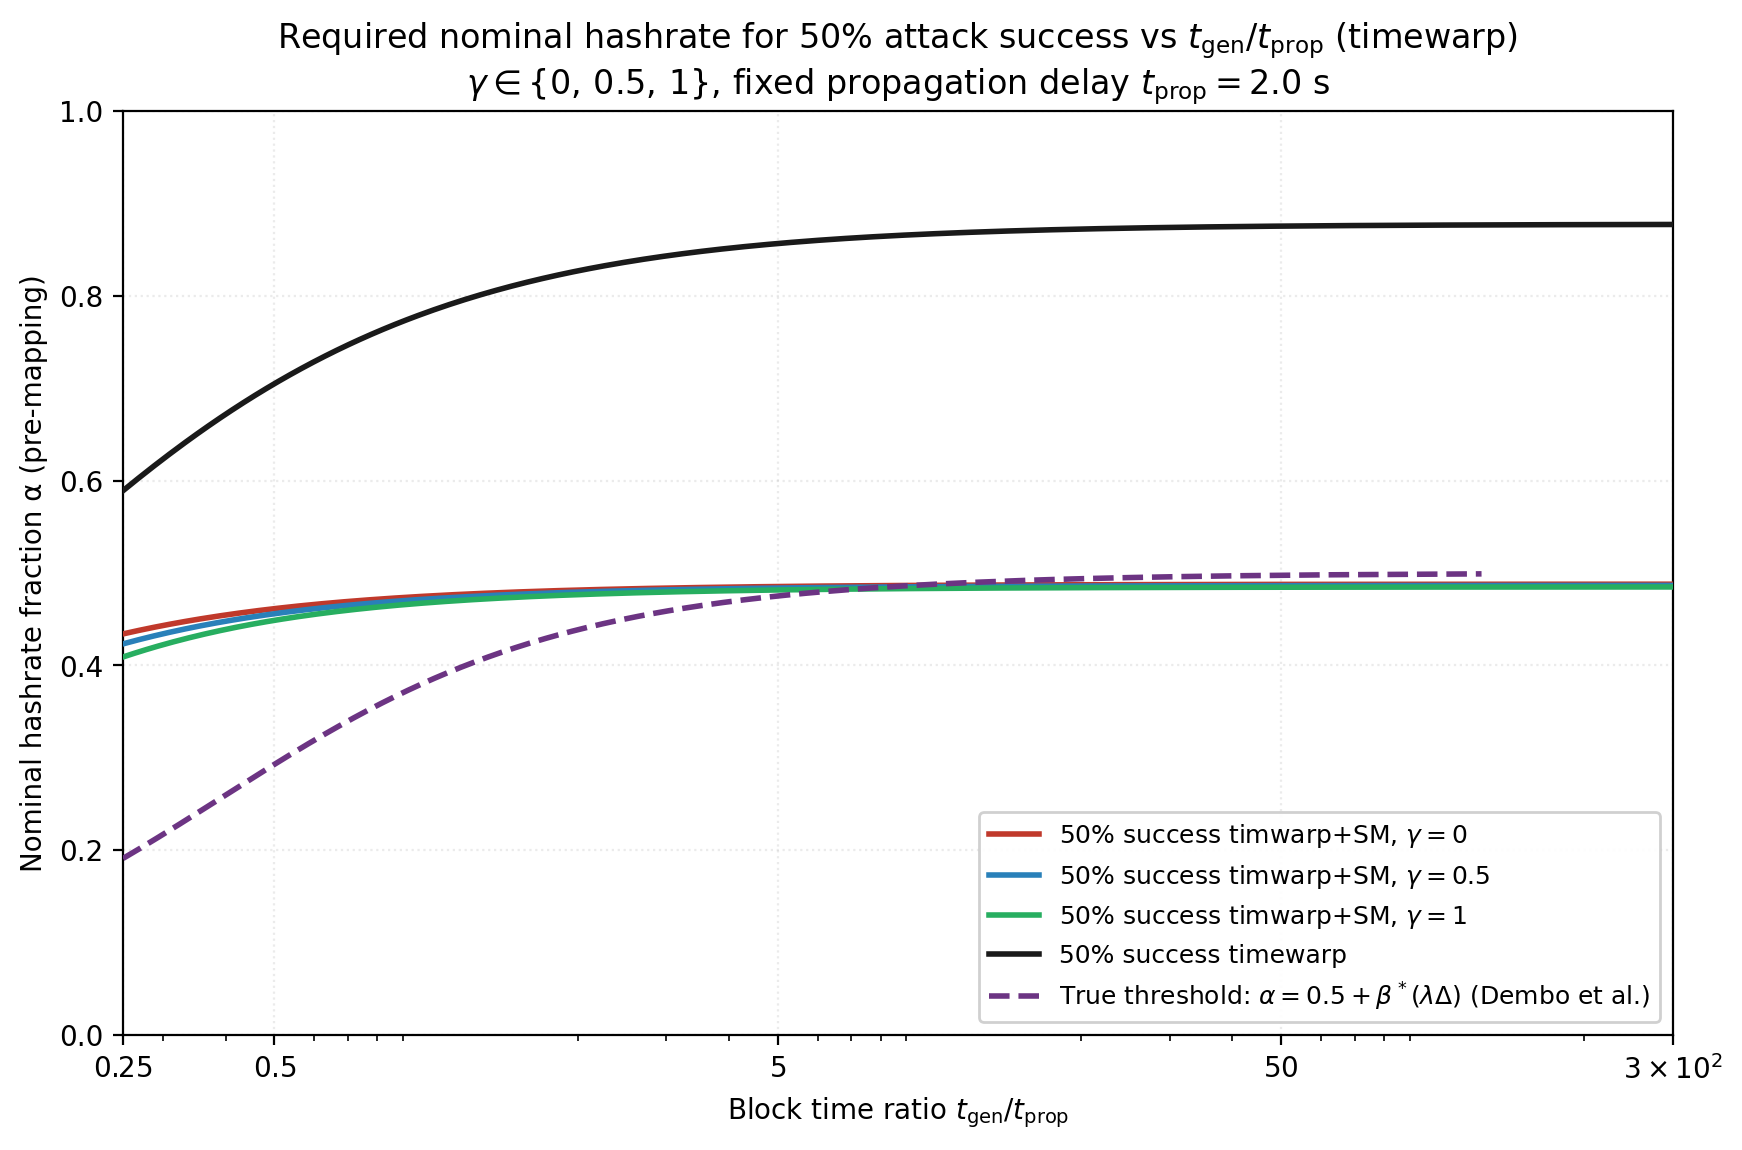
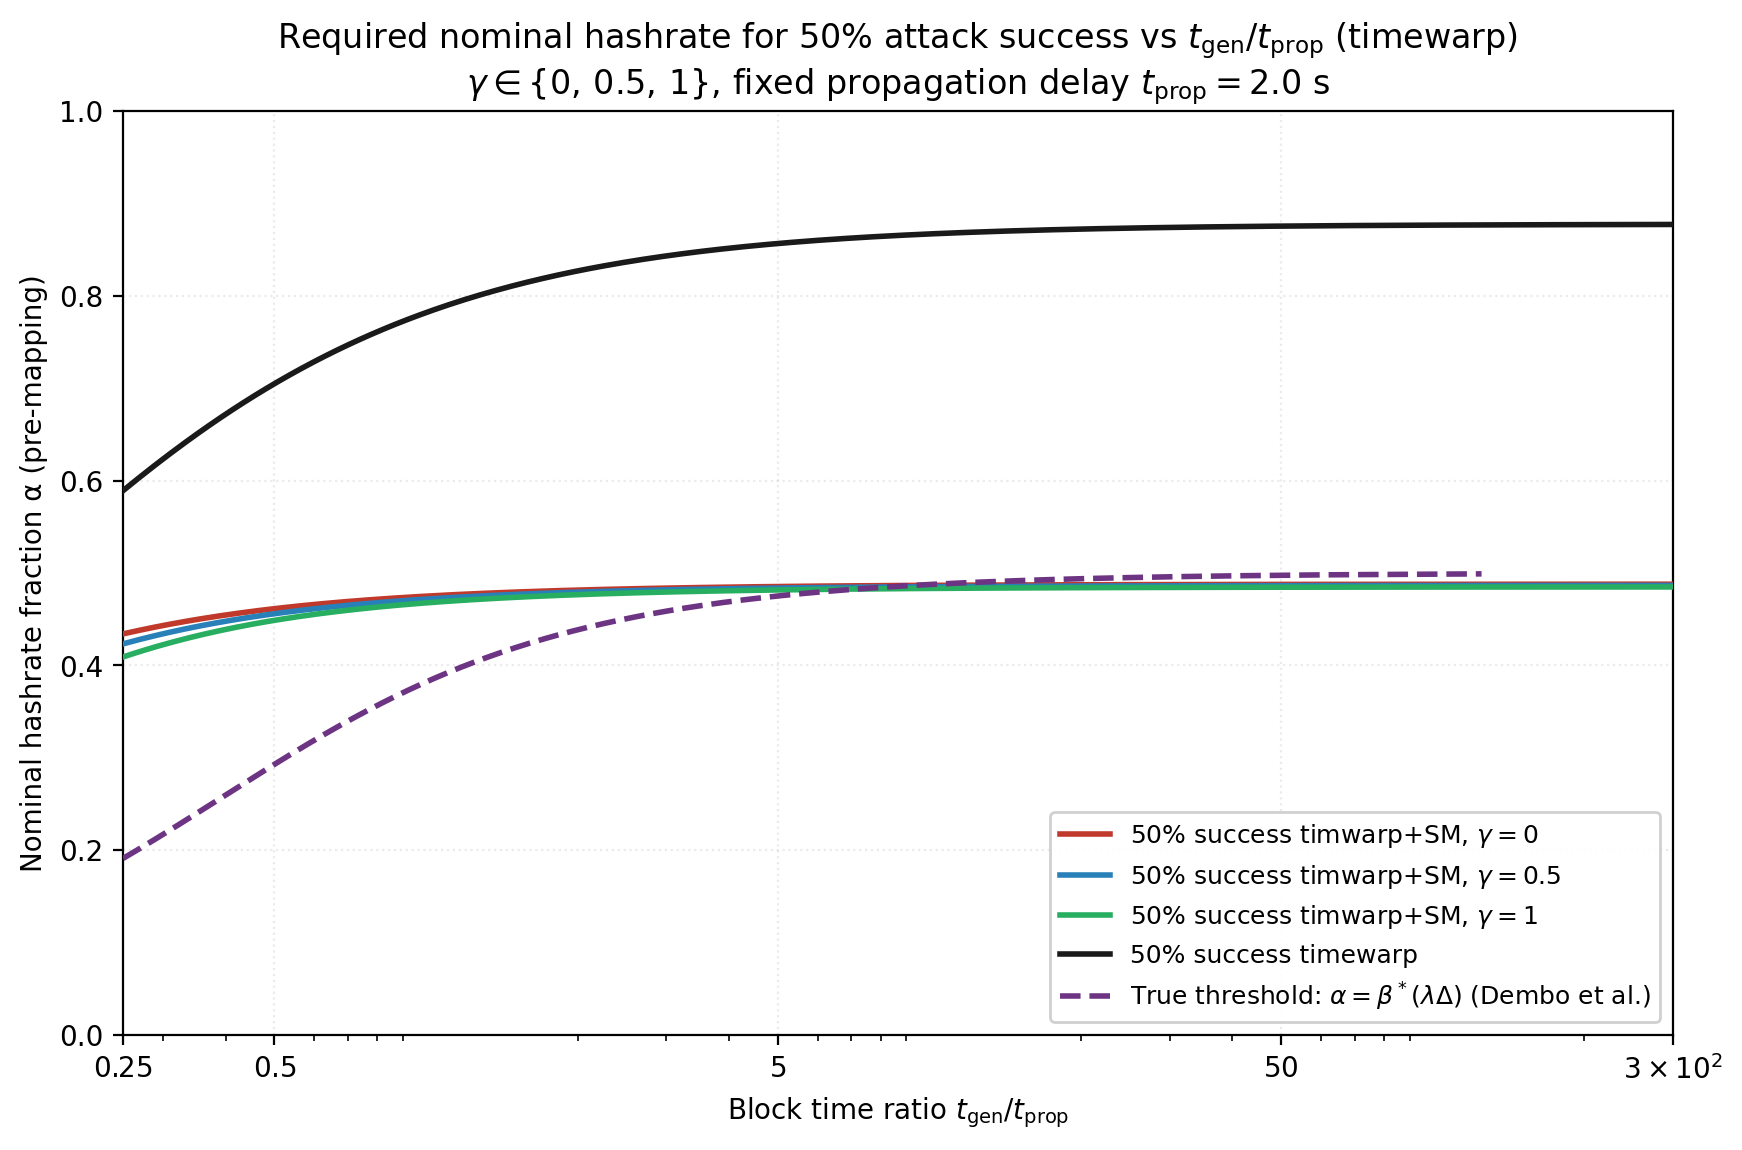
wip

Changed region(s): [[0.558, 0.7, 0.868, 0.8826]]

diff --git a/experiments/timewarp_theory_analysis/scripts/plot_required_hashrate_sm.py b/experiments/timewarp_theory_analysis/scripts/plot_required_hashrate_sm.py
@@ -210,6 +210,7 @@ def plot_required_nominal_hashrate_curves(*, show_pow_threshold: bool = True):
     )
 
     if show_pow_threshold:
+        # Dembo et al.: λΔ = (1−2β)/(β(1−β)), 1/(λΔ) = t_gen/t_prop。β は攻撃者割合で縦軸の名目 α と同一（オフセットなし）。
         betas_thr = np.linspace(0.001, 1.0, 1000)
         lambda_delta = (1.0 - 2.0 * betas_thr) / (betas_thr * (1.0 - betas_thr))
         inv_lambda_delta = 1.0 / lambda_delta
@@ -224,7 +225,7 @@ def plot_required_nominal_hashrate_curves(*, show_pow_threshold: bool = True):
             linewidth=2.0,
             linestyle="--",
             zorder=4,
-            label=r"True threshold (Dembo et al.)",
+            label=r"True threshold: $\alpha=\beta^*(\lambda\Delta)$ (Dembo et al.)",
         )
 
     ax.set_title(
